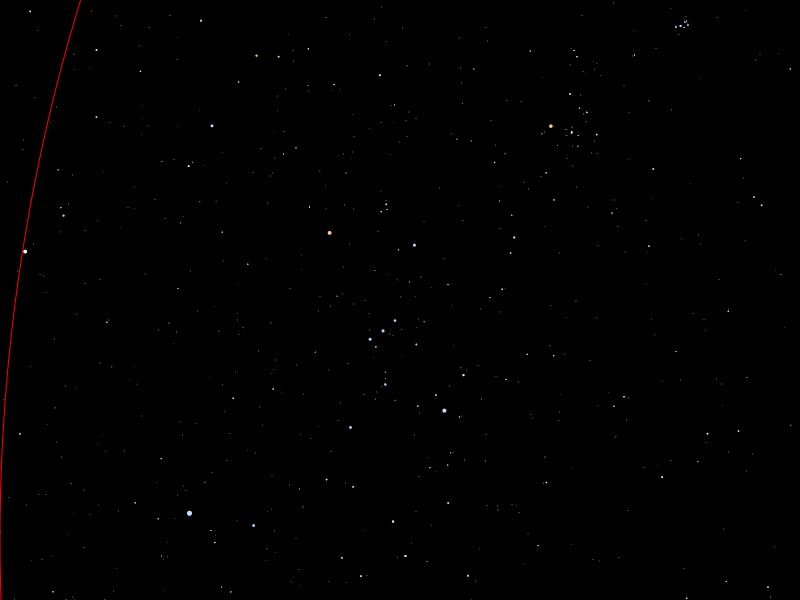
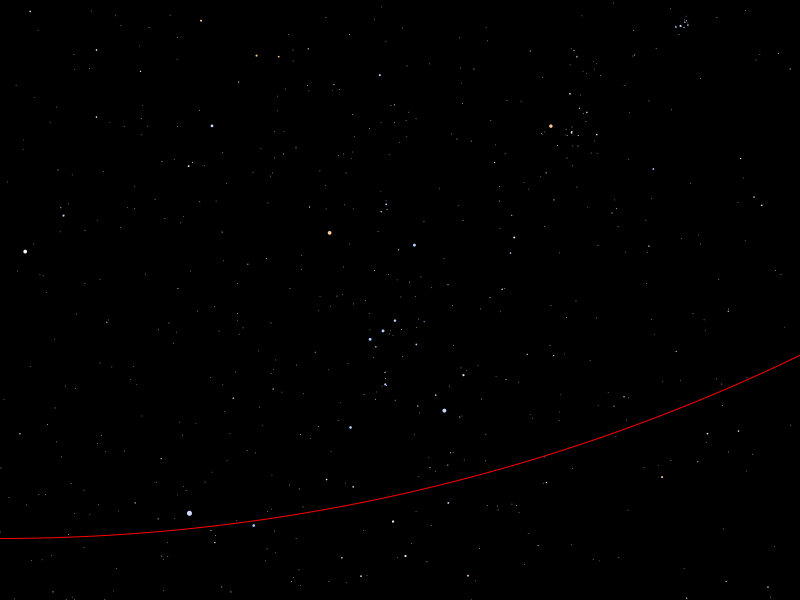
Updated

diff --git a/src/ch/epfl/rigel/gui/SkyCanvasPainter.java b/src/ch/epfl/rigel/gui/SkyCanvasPainter.java
@@ -174,7 +174,7 @@ public class SkyCanvasPainter { //classe instanciable //TODO Instanciable = Fina
         double diam = 2*projection.circleRadiusForParallel(parallel);
         double diamTransformed = planeToCanvas.deltaTransform(diam,0).getX();
         ctx.setStroke(Color.RED);
-        ctx.strokeOval(centerTransformed.getX(), centerTransformed.getY(), diamTransformed, diamTransformed);
+        ctx.strokeOval((centerTransformed.getX()-diamTransformed*0.5), (centerTransformed.getY()-diamTransformed*0.5), diamTransformed, diamTransformed);
     }
 
     static double objectDiameter(double magn, double multiplyFactor){ //TODO put in private at the end, now cannot cause test

diff --git a/test/ch/epfl/rigel/gui/SkyCanvasPainterTest.java b/test/ch/epfl/rigel/gui/SkyCanvasPainterTest.java
@@ -6,14 +6,14 @@ import ch.epfl.rigel.math.Angle;
 import org.junit.jupiter.api.Test;
 
 import static org.junit.jupiter.api.Assertions.*;
-/*
+
 class SkyCanvasPainterTest {
     @Test
     void testObjectDiameter(){
         StereographicProjection stereoProj = new StereographicProjection(HorizontalCoordinates.of(0,0));
-        double val = SkyCanvasPainter.ObjectDiameter(0.18, stereoProj.applyToAngle(Angle.ofDeg(0.5)));
+        double val = SkyCanvasPainter.objectDiameter(0.18, stereoProj.applyToAngle(Angle.ofDeg(0.5)));
         System.out.println(val);
         assertEquals(2.99*1e-3,val,1e-6);
     }
 
-}*/
+}
